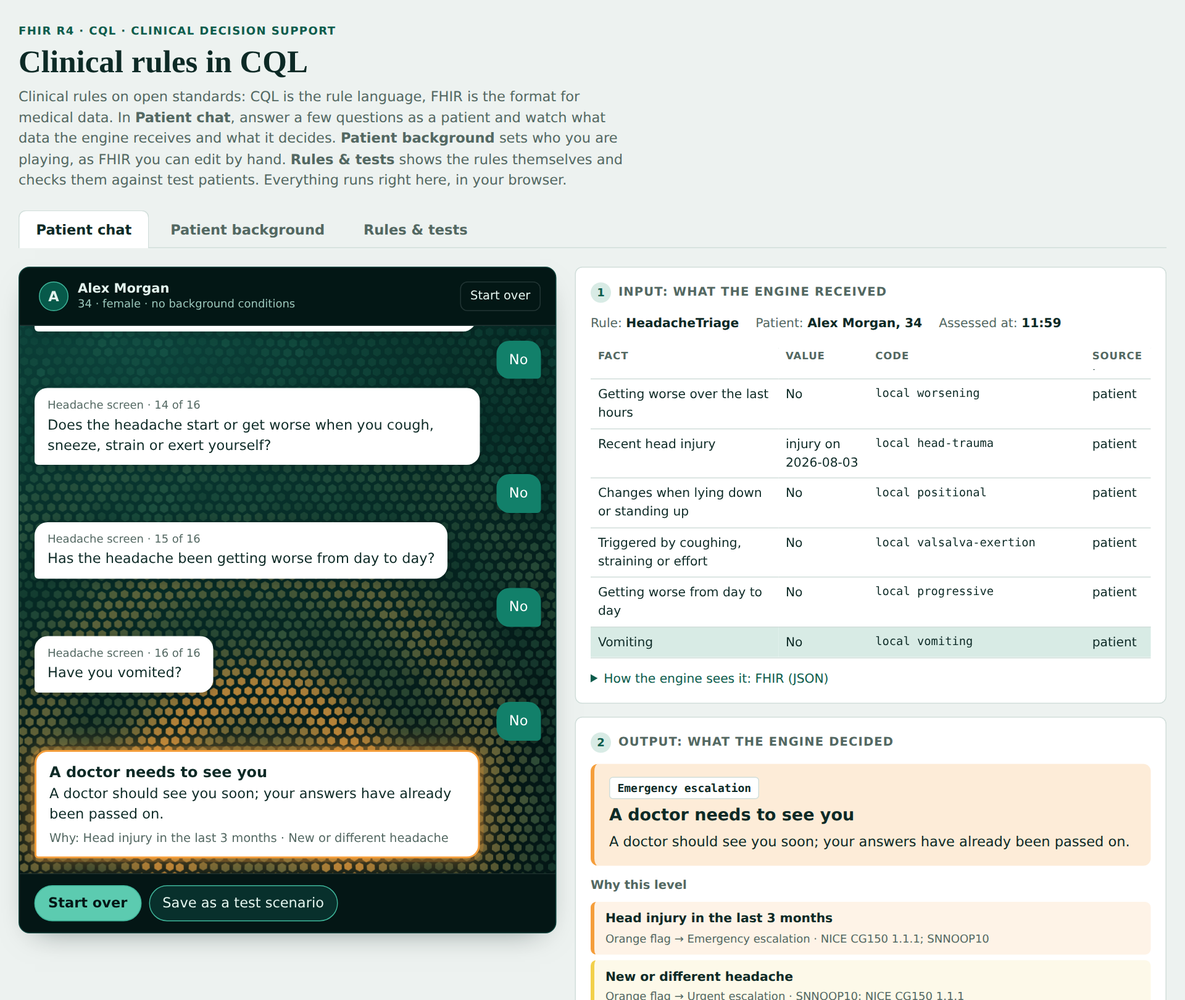
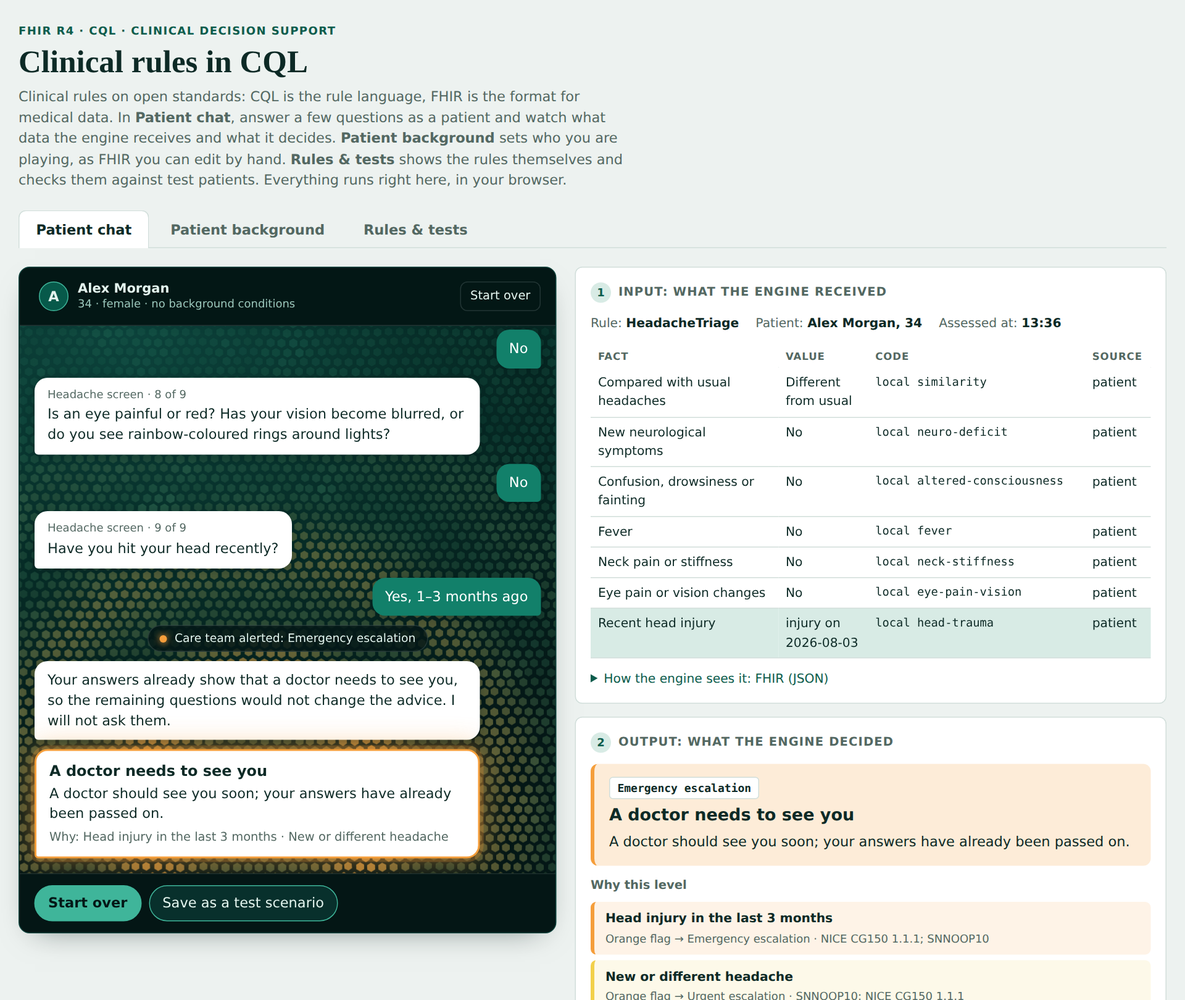
Let the headache rule decide which questions to ask
HeadacheTriage now returns Questions Needed: the unanswered questions
whose answer can still change the level, in order. The chat asks the
first one, re-runs the rule and repeats, so the question tree lives in
CQL and is tested like any other output.

- Onset on exertion is asked only for the Ottawa branch, worsening only
  after a fever, GCA signs only at 50+ with a new headache.
- Owner decision: with a headache like the usual ones, positional,
  cough-triggered and progressive features are not flags and are not
  asked.
- Owner decision: nothing more is asked once the level is ED, or once
  it is Emergency with every ED-level question answered.

A usual headache now takes 10 questions instead of 16. Scenarios h16
and h17 follow the new rules; h22-h25 test the tree. The protocol
document lists both decisions with their alternatives.

Claude-Session: https://claude.ai/code/session_011bsjphpfwD6A2eDCGEzVLt

diff --git a/web/index.html b/web/index.html
@@ -818,7 +818,7 @@ pre.json { margin: 0; max-height: 320px; overflow: auto; font: 12px/1.5 var(--fo
           <li>Press “Compile &amp; run”.</li>
         </ol>
         <p class="expect">Expected: <code data-expect="ex1">all passed</code>. This is how a UAT scenario is added: just facts and expectations.</p>
-        <div class="row"><button class="btn small" type="button" data-ex="1" data-tip="Adds a test patient whose headache gets worse with coughing (Urgent escalation) and runs every check.">Add and run</button></div>
+        <div class="row"><button class="btn small" type="button" data-ex="1" data-tip="Adds a test patient whose headache is different from the usual ones (Urgent escalation) and runs every check.">Add and run</button></div>
       </article>
       <article class="ex">
         <span class="num">EXERCISE 2</span>
@@ -870,12 +870,12 @@ pre.json { margin: 0; max-height: 320px; overflow: auto; font: 12px/1.5 var(--fo
 
   const NOTES = {
     "MoodScreening.cql": "Clinical module: depression (PHQ-9) and anxiety (GAD-7) screening. PHQ-9 item 9 is checked separately from the total score.",
-    "HeadacheTriage.cql": "Clinical module: adult headache triage (NICE CG150, SNNOOP10, Ottawa SAH Rule). Red flags → ED, orange flags → Emergency or Urgent; the pain score counts only when no flag fired.",
+    "HeadacheTriage.cql": "Clinical module: adult headache triage (NICE CG150, SNNOOP10, Ottawa SAH Rule). Red flags → ED, orange flags → Emergency or Urgent; the pain score counts only when no flag fired. It also lists the questions still worth asking (Questions Needed).",
     "RulePatterns.cql": "Pattern library: the building blocks every rule reuses — time window, trusted sources, latest value, upward-only escalation.",
     "FHIRHelpers.cql": "Standard HL7 helper library. No need to change it.",
     "vocabulary.json": "ValueSets: set address → codes, e.g. the answers that make a headache “new”.",
   };
-  const EXERCISE_FILE = "scenarios/h22-cough-makes-it-worse.json";
+  const EXERCISE_FILE = "scenarios/h30-different-from-usual.json";
 
   // ---------- file model ----------
   const original = {};
@@ -906,10 +906,10 @@ pre.json { margin: 0; max-height: 320px; overflow: auto; font: 12px/1.5 var(--fo
     let s;
     try { s = JSON.parse(original["scenarios/h01-baseline.json"]); } catch (e) { s = null; }
     if (!s || !Array.isArray(s.facts)) return { name: "New test patient", rule: MAIN, now: new Date().toISOString(), facts: [], expect: {} };
-    s.name = "Coughing makes the headache worse -> urgent escalation, provider notification";
-    const fact = s.facts.find(f => f.code === "valsalva-exertion");
-    if (fact) fact.answer = "Yes";
-    s.expect = { "Fired Flags": ["valsalva-exertion"], "Proposed Level": "Urgent escalation", "Disposition": "Provider notification" };
+    s.name = "Different from the usual headaches -> urgent escalation, provider notification";
+    const fact = s.facts.find(f => f.code === "similarity");
+    if (fact) fact.answer = "different";
+    s.expect = { "Fired Flags": ["new-or-changed"], "Proposed Level": "Urgent escalation", "Disposition": "Provider notification" };
     return s;
   }
 
@@ -1598,7 +1598,6 @@ pre.json { margin: 0; max-height: 320px; overflow: auto; font: 12px/1.5 var(--fo
     return defaultBackground();
   })();
   const saveBackground = () => { try { localStorage.setItem(BG_KEY, JSON.stringify(background)); } catch (e) { /* ignore */ } };
-  const backgroundAge = () => ageFrom(patientOf(background).birthDate);
 
   // A copy for one engine run: the Patient goes to scenario.patient, everything else to scenario.resources
   function backgroundForEngine() {
@@ -1987,14 +1986,16 @@ pre.json { margin: 0; max-height: 320px; overflow: auto; font: 12px/1.5 var(--fo
   // The engine outputs shown up front and saved as expectations; the rest stays in the full trace
   const KEY_OUTPUTS = {
     MoodScreening: ["PHQ-9 Score", "PHQ-9 Severity", "GAD-7 Score", "GAD-7 Severity", "Self-harm Thoughts", "Proposed Level", "New Level", "Disposition"],
-    HeadacheTriage: ["Age", "Pain Now", "Fired Flags", "Ask Headache Screen", "Proposed Level", "New Level", "Disposition"],
+    HeadacheTriage: ["Age", "Pain Now", "Fired Flags", "Questions Needed", "Proposed Level", "New Level", "Disposition"],
   };
   const LEVEL_CLS = { "ED escalation": "ed", "Emergency escalation": "emergency", "Urgent escalation": "urgent", "No escalation required": "none" };
   // Dispositions after which the chat stops asking: one answer was enough
   const STOP = new Set(["Leave area and seek emergency care", "Emergency Department evaluation"]);
 
-  // The headache screen in the protocol's order: ED-level questions first, then the pain score, then the rest
+  // The headache screen questions, in the order the rule lists them. The rule decides which are asked:
+  // its "Questions Needed" output names only those whose answer can still change the level.
   const NEW_PAIN_TIP = "A new or different headache: an orange flag (Urgent escalation). It also turns on the flags that need a new headache.";
+  const NEW_PAIN_ONLY = "Counted only with a new or different headache, which is already Urgent escalation: it adds detail to the alert, so the rule does not ask it.";
   const HQ = [
     { code: "co-exposure", short: "Others unwell nearby, or a fuel-burning appliance", text: "Does anyone around you have similar symptoms? Is a generator, gas heater or stove running indoors where you are?", yes: "Possible carbon monoxide: ED escalation, and the first advice is to leave the area." },
     { code: "onset-peak", short: "Time from onset to the worst pain", text: "How quickly did the headache reach its worst?", options: [
@@ -2002,9 +2003,8 @@ pre.json { margin: 0; max-height: 320px; overflow: auto; font: 12px/1.5 var(--fo
       { label: "In 5 to 60 minutes", value: "5-to-60-min", tip: "With a new headache and pain of 7 or more, the Ottawa SAH Rule is checked." },
       { label: "Over more than an hour", value: "over-60-min", tip: "A gradual onset: no flag by itself." },
     ] },
-    { code: "onset-exertion", short: "Started during physical effort", text: "Did it start during physical effort, such as exercise, lifting or straining?", yes: "One of the Ottawa SAH Rule criteria: it counts with a new, severe headache that peaked within an hour." },
     { code: "similarity", short: "Compared with usual headaches", text: "Is this headache like the headaches you usually get?", options: [
-      { label: "Like my usual ones", value: "usual", tip: "A familiar headache: no flag by itself." },
+      { label: "Like my usual ones", value: "usual", tip: "A familiar headache: no flag by itself, and the screen gets shorter." },
       { label: "Different from usual", value: "different", tip: NEW_PAIN_TIP },
       { label: "My first headache like this", value: "first-ever", tip: NEW_PAIN_TIP },
     ] },
@@ -2013,21 +2013,22 @@ pre.json { margin: 0; max-height: 320px; overflow: auto; font: 12px/1.5 var(--fo
     { code: "fever", short: "Fever", text: "Do you have a fever?", yes: "With neck pain or stiffness: ED escalation. With a headache that is getting worse: Emergency escalation." },
     { code: "neck-stiffness", short: "Neck pain or stiffness", text: "Is your neck painful or stiff, so that it is hard to bend your head forward?", yes: "With fever: a red flag (possible meningitis). It is also an Ottawa SAH Rule criterion." },
     { code: "eye-pain-vision", short: "Eye pain or vision changes", text: "Is an eye painful or red? Has your vision become blurred, or do you see rainbow-coloured rings around lights?", yes: "A red flag (possible acute glaucoma): ED escalation." },
-    { kind: "pain", short: "Pain now, 0–10", text: "How bad is the headache right now, from 0 (no pain) to 10 (the worst pain you can imagine)?" },
-    { code: "worsening", short: "Getting worse over the last hours", text: "Is the headache getting worse over the last few hours?", yes: "With fever: Emergency escalation." },
+    { code: "onset-exertion", short: "Started during physical effort", text: "Did it start during physical effort, such as exercise, lifting or straining?", yes: "One of the Ottawa SAH Rule criteria: it counts with a new, severe headache that peaked within an hour." },
+    { code: "pain-score", kind: "pain", short: "Pain now, 0–10", text: "How bad is the headache right now, from 0 (no pain) to 10 (the worst pain you can imagine)?" },
     { code: "head-trauma", short: "Recent head injury", text: "Have you hit your head recently?", options: [
       { label: "No", value: "No", tip: "Recorded as “No”: a real answer." },
       { label: "Yes, in the last 4 weeks", value: { daysAgo: 14 }, tip: "Recorded as the date of the injury, about 2 weeks ago: within 3 months, so Emergency escalation." },
       { label: "Yes, 1–3 months ago", value: { daysAgo: 60 }, tip: "Recorded as a date about 2 months ago: within the 90-day window, so Emergency escalation." },
       { label: "Yes, more than 3 months ago", value: { daysAgo: 120 }, tip: "Recorded as a date about 4 months ago: outside the 90-day window, so no flag." },
     ] },
-    { code: "positional", short: "Changes when lying down or standing up", text: "Does the headache change when you lie down or stand up?", yes: "An orange flag: Urgent escalation." },
-    { code: "valsalva-exertion", short: "Triggered by coughing, straining or effort", text: "Does the headache start or get worse when you cough, sneeze, strain or exert yourself?", yes: "An orange flag: Urgent escalation." },
-    { code: "progressive", short: "Getting worse from day to day", text: "Has the headache been getting worse from day to day?", yes: "An orange flag: Urgent escalation." },
-    { code: "vomiting", short: "Vomiting", text: "Have you vomited?", yes: "With a new or different headache: Urgent escalation." },
-    { code: "gca-features", short: "Jaw pain when chewing, or a tender scalp", text: "Does your jaw hurt when you chew? Is your scalp sore to the touch?", yes: "At 50 or older with a new headache: possible giant cell arteritis, Emergency escalation.", minAge: 50 },
+    { code: "worsening", short: "Getting worse over the last hours", text: "You said you have a fever. Is the headache getting worse over the last few hours?", yes: "Fever with a worsening headache: Emergency escalation." },
+    { code: "gca-features", short: "Jaw pain when chewing, or a tender scalp", text: "Does your jaw hurt when you chew? Is your scalp sore to the touch?", yes: "At 50 or older with a new headache: possible giant cell arteritis, Emergency escalation." },
+    { code: "positional", short: "Changes when lying down or standing up", text: "Does the headache change when you lie down or stand up?", yes: NEW_PAIN_ONLY },
+    { code: "valsalva-exertion", short: "Triggered by coughing, straining or effort", text: "Does the headache start or get worse when you cough, sneeze, strain or exert yourself?", yes: NEW_PAIN_ONLY },
+    { code: "progressive", short: "Getting worse from day to day", text: "Has the headache been getting worse from day to day?", yes: NEW_PAIN_ONLY },
+    { code: "vomiting", short: "Vomiting", text: "Have you vomited?", yes: NEW_PAIN_ONLY },
   ];
-  const HQ_BY_CODE = Object.fromEntries(HQ.filter(q => q.code).map(q => [q.code, q]));
+  const HQ_BY_CODE = Object.fromEntries(HQ.map(q => [q.code, q]));
 
   // The flags the rule can fire ("Fired Flags"), in words, with the evidence behind each
   const FLAGS = {
@@ -2136,7 +2137,7 @@ pre.json { margin: 0; max-height: 320px; overflow: auto; font: 12px/1.5 var(--fo
       const topic = await ask(
         `Hi! This is a demo chat: you answer as a patient, and the Input and Output panels show what data the rule engine received and what it decided.\nYou are playing ${nameOf(p) || "the patient"}, ${ageFrom(p.birthDate)}. Click the name above to change the age or medical background.\nWhat shall we check?`,
         [
-          { label: "Headache", value: "headache", cls: "primary", tip: "Runs HeadacheTriage: an adult headache screen based on NICE CG150, SNNOOP10 and the Ottawa SAH Rule. It also reads the patient background." },
+          { label: "Headache", value: "headache", cls: "primary", tip: "Runs HeadacheTriage: an adult headache screen based on NICE CG150, SNNOOP10 and the Ottawa SAH Rule. The rule picks each next question and reads the patient background." },
           { label: "Mood and anxiety", value: "mood", tip: "Runs the MoodScreening rule: the PHQ-9 depression and GAD-7 anxiety questionnaires." },
         ],
       );
@@ -2186,10 +2187,6 @@ pre.json { margin: 0; max-height: 320px; overflow: auto; font: 12px/1.5 var(--fo
   }
 
   // ---------- the headache screen ----------
-  const applicableQuestions = () => HQ.filter(q => !q.minAge || (backgroundAge() ?? 0) >= q.minAge);
-  const isAnswered = (chat, q) => chat.facts.some(f => (q.kind === "pain"
-    ? f.kind === "pain" && f.value != null
-    : f.kind === "headache-screen" && f.code === q.code && (f.answer != null || f.date != null)));
   const NOT_SURE = { label: "Not sure", value: null, cls: "muted", tip: "Recorded as a question without an answer. The rule treats it as unknown, not as “no”, and asks for it again." };
 
   function optionsFor(q) {
@@ -2220,35 +2217,42 @@ pre.json { margin: 0; max-height: 320px; overflow: auto; font: 12px/1.5 var(--fo
   }
 
   async function headacheFlow(my) {
-    const chat = { rule: "HeadacheTriage", facts: [], sentLevel: null };
+    const chat = { rule: "HeadacheTriage", facts: [], sentLevel: null, asked: 0 };
     const has = await ask("Do you have a headache right now?", [
-      { label: "Yes", value: "Yes", tip: "Start the headache screen: up to 17 short questions, the most important first." },
+      { label: "Yes", value: "Yes", tip: "Start the headache screen: about ten short questions, the most important first." },
       { label: "No", value: "No", tip: "Recorded as “No”. The protocol applies only to a headache now, so the engine will say it does not apply." },
     ]);
     if (my !== chatSession) return;
     chat.facts.push({ kind: "headache", answer: has, at: new Date().toISOString(), source: "Patient" });
     if (!(await step(my, chat, true))) return;
     if (has === "Yes") {
-      say("I will ask a few short questions, the most important first, and stop as soon as one answer is enough to advise you. The Output panel shows the engine's decision after every answer.");
-      await screen(my, chat, applicableQuestions());
+      say("I will ask a few short questions, the most important first. After each answer the rule picks the next question and skips those that can no longer change the advice, so I stop as soon as the answer is clear. The Output panel shows the engine's decision after every answer.");
+      await screen(my, chat);
     } else {
       await conclude(my, chat);
     }
   }
 
-  async function screen(my, chat, list) {
-    for (let i = 0; i < list.length; i++) {
-      const q = list[i];
-      progress(i + 1, list.length);
-      const value = await ask(q.text, optionsFor(q), `Headache screen · ${i + 1} of ${list.length}`);
+  // The questions the rule still needs, in its order, that this pass has not asked yet.
+  // "Not sure" leaves a question needed, so each pass asks it once; the skipped ones get their own pass.
+  const neededNow = (chat, asked) => listOf(chat.last.out["Questions Needed"]).filter(code => HQ_BY_CODE[code] && !asked.has(code));
+
+  async function screen(my, chat) {
+    const asked = new Set();
+    for (let needed = neededNow(chat, asked); needed.length && !STOP.has(chat.last.out.Disposition); needed = neededNow(chat, asked)) {
+      const q = HQ_BY_CODE[needed[0]];
+      asked.add(q.code);
+      chat.asked += 1;
+      const total = chat.asked + needed.length - 1;
+      progress(chat.asked, total);
+      const value = await ask(q.text, optionsFor(q), `Headache screen · ${chat.asked} of ${total}`);
       if (my !== chatSession) return;
       chat.facts.push(factFor(q, value));
       if (!(await step(my, chat, true))) return;
-      if (STOP.has(chat.last.out.Disposition)) {
-        if (i < list.length - 1) say("I am stopping the questions here: this answer is enough to advise you.");
-        break;
-      }
     }
+    const level = chat.last.out["Proposed Level"];
+    if (STOP.has(chat.last.out.Disposition)) say("I am stopping the questions here: this answer is enough to advise you.");
+    else if (level === "Emergency escalation" && !neededNow(chat, new Set()).length) say("Your answers already show that a doctor needs to see you, so the remaining questions would not change the advice. I will not ask them.");
     await conclude(my, chat);
   }
 
@@ -2323,15 +2327,14 @@ pre.json { margin: 0; max-height: 320px; overflow: auto; font: 12px/1.5 var(--fo
     decision.classList.add("decision", r.verdict.cls);
     waves.light(decision, r.verdict.cls);
 
-    const missing = chat.rule === "HeadacheTriage" && r.out.Applies === "true" && !STOP.has(r.out.Disposition)
-      ? applicableQuestions().filter(q => !isAnswered(chat, q)) : [];
+    const missing = chat.rule === "HeadacheTriage" && !STOP.has(r.out.Disposition) ? neededNow(chat, new Set()) : [];
     const asking = /^Ask/.test(r.out.Disposition || "");
     const options = [];
     if (missing.length) {
       options.push({
         label: missing.length === 1 ? "Answer the skipped question" : `Answer the ${missing.length} skipped questions`,
         value: "missing", cls: asking ? "primary" : undefined, silent: true,
-        tip: "Ask again only the questions that have no answer yet. The engine re-runs after each one.",
+        tip: "Ask again only the questions the rule still needs. The engine re-runs after each one.",
       });
     }
     options.push({ label: "Start over", value: "restart", cls: missing.length && asking ? undefined : "primary", silent: true, tip: TIP_RESTART });
@@ -2481,7 +2484,10 @@ pre.json { margin: 0; max-height: 320px; overflow: auto; font: 12px/1.5 var(--fo
   function renderOutput(rule, r, live) {
     const { scenario, out, trace, verdict } = r;
     const parts = [];
-    if (live) parts.push(el("p", "live", `Live: the engine re-runs after every answer (${scenario.facts.length} so far).`));
+    if (live) {
+      const needed = listOf(out["Questions Needed"]).length;
+      parts.push(el("p", "live", `Live: the engine re-runs after every answer (${scenario.facts.length} so far)${rule === "HeadacheTriage" && out.Applies === "true" ? `; the rule still needs ${needed} question${needed === 1 ? "" : "s"}` : ""}.`));
+    }
     const card = el("div", "verdict " + verdict.cls);
     if (out["Proposed Level"]) card.append(el("span", "level", out["Proposed Level"]));
     card.append(el("h3", null, verdict.title), el("p", null, verdict.text));

diff --git a/docs/headache-triage-protocol.md b/docs/headache-triage-protocol.md
@@ -2,7 +2,7 @@
 
 Andrii Yevenko · October 2026 · based on NCBI sources (PubMed, PMC, Bookshelf) and NICE CG150
 
-Implemented in [`cql/HeadacheTriage.cql`](../cql/HeadacheTriage.cql) and checked by test scenarios `h01`–`h21` in [`scenarios/`](../scenarios/). The escalation levels are illustrative: this demonstrates an approach, not a clinical recommendation.
+Implemented in [`cql/HeadacheTriage.cql`](../cql/HeadacheTriage.cql) and checked by test scenarios `h01`–`h25` in [`scenarios/`](../scenarios/). The escalation levels are illustrative: this demonstrates an approach, not a clinical recommendation.
 
 ## Purpose and scope
 
@@ -24,7 +24,7 @@ Branches are checked top-down and the first true one wins. Any positive flag out
 | 3 | At least one ED-level question unanswered | The highest orange flag so far, or null | Ask headache screen | Answer the rest; if the level is not null, the care team is already alerted |
 | 4 | An Emergency-level flag | Emergency escalation | Provider evaluation required | Seen by a doctor the same day |
 | 5 | An Urgent-level flag, or NRS ≥ 8 | Urgent escalation | Provider notification | Contact from the care team within a day |
-| 6 | Other questions unanswered, no flags | null | Ask headache screen | Answer the remaining questions |
+| 6 | A question that can still change the level is unanswered, no flags | null | Ask headache screen | Answer the remaining questions |
 | 7 | Screen complete, NRS 0–7 | No escalation required | Reassure | Self-care and when to seek help again |
 | 8 | Screen complete, no pain score | null | Ask pain score | Rate the pain |
 
@@ -57,11 +57,14 @@ These signs do not need an ambulance but do need a doctor: the same day (Emergen
 | Age ≥ 50, new or changed headache + jaw pain when chewing or a tender scalp | Emergency | Does your jaw hurt when you chew? Is your scalp sore to the touch? | `gca-features` | StatPearls, Giant Cell Arteritis: visual symptoms in 20–30% of patients |
 | Head injury in the last 3 months | Emergency | Have you hit your head recently? When? | `head-trauma` | NICE CG150, 1.1.1; SNNOOP10 |
 | Immunosuppression (HIV, immunosuppressive drugs) + new headache | Emergency | Profile | `immunocompromised` | NICE CG150, 1.1.2; SNNOOP10 |
-| New headache (first ever), a marked change from the usual, or progressive headache | Urgent | Similarity = first ever or different; is it getting worse from day to day? | `similarity`, `progressive` | SNNOOP10: pattern change or recent new headache, progressive headache; NICE CG150, 1.1.1 |
-| Headache that changes with posture | Urgent | Does it change when you lie down or stand up? | `positional` | NICE CG150, 1.1.1; SNNOOP10: intracranial hyper- or hypotension |
-| Headache triggered by coughing, sneezing, straining or exercise | Urgent | Does it start or get worse when you cough, sneeze, strain or exert yourself? | `valsalva-exertion` | NICE CG150, 1.1.1 |
+| New headache (first ever), or a marked change from the usual | Urgent | Similarity = first ever or different | `similarity` | SNNOOP10: pattern change or recent new headache; NICE CG150, 1.1.1 |
+| Progressive headache + new or changed headache | Urgent | Is it getting worse from day to day? | `progressive` | SNNOOP10: progressive headache; NICE CG150, 1.1.1 |
+| Headache that changes with posture + new or changed headache | Urgent | Does it change when you lie down or stand up? | `positional` | NICE CG150, 1.1.1; SNNOOP10: intracranial hyper- or hypotension |
+| Headache triggered by coughing, sneezing, straining or exercise + new or changed headache | Urgent | Does it start or get worse when you cough, sneeze, strain or exert yourself? | `valsalva-exertion` | NICE CG150, 1.1.1 |
 | History of cancer (one that spreads to the brain) + new headache | Urgent | Profile | `cancer-history` | NICE CG150, 1.1.2 |
 | Vomiting + new headache | Urgent | Have you vomited? | `vomiting` | NICE CG150, 1.1.2: vomiting without another obvious cause |
+
+Positional, cough-triggered and progressive features count only with a new or changed headache (owner decision, October 2026): with a headache like the usual ones they are not flags and are not asked. A new or changed headache is already Urgent, so these features, like vomiting and a cancer history, add detail to the alert but do not change the level.
 
 Loss of vision or double vision with suspected GCA already gives ED through “new neurological deficit”. NICE gives a migraine attack as an example of an “other obvious cause” of vomiting, but a patient cannot tell the difference, so the rule counts vomiting with any new headache.
 
@@ -72,11 +75,23 @@ The pain score affects the decision only when the screen is complete and no flag
 - NRS ≥ 8 → Urgent: a person in severe pain needs a pain-relief plan, not an ambulance.
 - NRS 0–7 → No escalation required, Disposition = Reassure.
 
-**Required questions.** ED-level: `co-exposure`, `onset-peak`, `onset-exertion`, `similarity`, `neuro-deficit`, `altered-consciousness`, `fever`, `neck-stiffness`, `eye-pain-vision`, plus the pain score when the pain is new and peaked within an hour (the Ottawa branch). The rest: `worsening`, `head-trauma`, `positional`, `valsalva-exertion`, `progressive`, `vomiting`; at age ≥ 50 also `gca-features`.
+**Which questions are asked.** The rule itself returns **Questions Needed**: the unanswered questions whose answer can still change the level, in the order to ask them. The chat asks the first one, runs the rule again and repeats, so a question is never asked when no answer to it could change the advice.
+
+| Question | Asked when |
+|---|---|
+| `co-exposure`, `onset-peak`, `similarity`, `neuro-deficit`, `altered-consciousness`, `fever`, `neck-stiffness`, `eye-pain-vision` | Always: ED-level, asked first |
+| `onset-exertion` | Only for the Ottawa branch: a new or changed headache that peaked in 5–60 minutes, age under 40 and no stiff neck (otherwise the rule is already met or cannot apply) |
+| Pain score (NRS) | ED-level in the Ottawa branch; otherwise only while no orange flag has fired, because it then decides between Reassure and Urgent |
+| `head-trauma` | While the level is below Emergency |
+| `worsening` | Only after “Yes” to fever, while the level is below Emergency |
+| `gca-features` | Age ≥ 50 and a new or changed headache, while the level is below Emergency |
+| `positional`, `valsalva-exertion`, `progressive`, `vomiting` | Never: they count only with a new or changed headache, which is already Urgent, so they cannot change the level |
+
+**Stopping early** (owner decision, October 2026). Nothing more is asked once the level is ED, or once it is Emergency and every ED-level question is answered: the remaining answers could not change the advice. The alert then lists only the flags found so far. A typical headache like the usual ones takes 10 questions instead of 16.
 
 - **“No” is a fact.** Each question is recorded as its own Observation with a yes/no answer. A flag fires only on “Yes”, and a question counts as answered only when it has a value. This closes two gaps of a plain “symptom present” model: an Observation without a value is not an answer, and a symptom answered “No” does not escalate.
 - **“Prefer not to answer”** (“Not sure” in the chat) means no answer.
-- **Ask Headache Screen** = true when at least one required question has no answer in the window. **Ask Pain Score** = true when there is no pain score in the window.
+- **Ask Headache Screen** = true when Questions Needed is not empty. **Ask Pain Score** = true when there is no pain score in the window.
 - **Proposed Level** = null only when no flag fired and an answer is missing. A positive flag does not wait for the screen to finish.
 
 Unlike a rule where only a pain score can be missing (and a missing score can never outrank a red flag), here unanswered questions can still reveal ED. So the ED-level questions come first, and while any of them is unanswered, Disposition = Ask headache screen, even if New Level has already sent the care team an Emergency or Urgent alert.
@@ -117,11 +132,11 @@ New building blocks in `RulePatterns`:
 - **From Record.** Profile facts also accept MANUAL, because a clinician enters them. Symptoms and answers are still accepted only from Patient and RPM.
 - **Dated Within(lookback).** The head-injury answer is recorded at the time of the conversation, and the date of the injury is its value (`valueDateTime`). The flag fires when that date is no older than 90 days. Symptoms stay in `Conversation Window(Last Run, 12 h)`.
 
-Outputs: Proposed Level, New Level (through Monotonic Escalation), Disposition, Ask Headache Screen, Ask Pain Score and **Fired Flags** — the list of codes of the flags that fired, for the alert text.
+Outputs: Proposed Level, New Level (through Monotonic Escalation), Disposition, Ask Headache Screen, Ask Pain Score, **Questions Needed** — the questions still worth asking, in order — and **Fired Flags** — the list of codes of the flags that fired, for the alert text.
 
 ## Test scenarios
 
-Twenty-one scenarios cover every branch, every boundary (NRS 7/8, age 39/40 and 49/50, injury 90/91 days ago), missing data, an untrusted source and the choice of the latest pain score. The base for all of them: headache “yes” in the window, every question “no”, similarity “like usual”, NRS 5, age 35, an empty profile, source Patient, Last Run and Current Level null.
+Twenty-five scenarios cover every branch, every boundary (NRS 7/8, age 39/40 and 49/50, injury 90/91 days ago), missing data, an untrusted source, the choice of the latest pain score and the question tree. The base for all of them: headache “yes” in the window, every question “no”, similarity “like usual”, NRS 5, age 35, an empty profile, source Patient, Last Run and Current Level null.
 
 | # | Change from the base | Proposed Level | Disposition | What it checks |
 |---|---|---|---|---|
@@ -140,14 +155,18 @@ Twenty-one scenarios cover every branch, every boundary (NRS 7/8, age 39/40 and 
 | H13 | Head injury 90 days ago | Emergency escalation | Provider evaluation required | The injury window boundary |
 | H14 | Head injury 91 days ago | No escalation required | Reassure | A fact outside the window has no effect |
 | H15 | `neuro-deficit` as an Observation without a value | null | Ask headache screen | An empty Observation is not an answer |
-| H16 | `neuro-deficit` “yes”, other questions unanswered | ED escalation | Emergency Department evaluation | A flag does not wait for the full screen |
-| H17 | `positional` “yes”, `eye-pain-vision` unanswered | Urgent escalation | Ask headache screen | An orange flag with ED questions incomplete |
+| H16 | `neuro-deficit` “yes”, other questions unanswered | ED escalation | Emergency Department evaluation | A flag does not wait for the full screen; nothing more is asked |
+| H17 | Head injury 2 weeks ago, `eye-pain-vision` unanswered | Emergency escalation | Ask headache screen | An orange flag with ED questions incomplete: only the ED question is still needed |
 | H18 | `neuro-deficit` “yes” from source MANUAL | null | Ask headache screen | A clinician's entry is not the patient's answer |
 | H19 | Immunosuppression in the profile (MANUAL), first ever | Emergency escalation | Provider evaluation required | From Record accepts MANUAL for the profile |
 | H20 | Current Level = ED escalation, `within-5-min` | ED escalation | Emergency Department evaluation | New Level = null, no repeat alert |
 | H21 | Two pain scores: 9 earlier, 4 now | No escalation required | Reassure | The latest score counts, not the highest |
+| H22 | Usual headache, age 55; exertion, worsening, posture, cough, day-to-day, vomiting and GCA unanswered | No escalation required | Reassure | None of those questions is needed for a usual headache |
+| H23 | Different headache, immunosuppressed; nothing after the ED questions | Emergency escalation | Provider evaluation required | Emergency with the ED questions answered stops the screen |
+| H24 | Fever “yes”, neck “no”, worsening unanswered | null | Ask headache screen | Fever makes the worsening question needed |
+| H25 | First headache like this, peak in 5–60 minutes, age 35 | Urgent escalation | Ask headache screen | The Ottawa branch makes exertion and the pain score ED-level questions |
 
-H15–H18 also check Ask Headache Screen = true; H20 checks New Level = null. Every base answer is an explicit “No”, so each scenario also checks that “No” never raises a flag.
+H15, H17 and H18 also check Ask Headache Screen = true; H16, H17 and H22–H25 check Questions Needed; H20 checks New Level = null. Every base answer is an explicit “No”, so each scenario also checks that “No” never raises a flag.
 
 ## Owner decisions and evidence limits
 
@@ -165,6 +184,8 @@ The protocol is deliberately sensitive: most flags have low specificity on their
 | Pregnancy | From the profile only | Ask all women of childbearing age; define the postpartum period and a blood-pressure threshold if RPM sends blood pressure |
 | Medication overuse (SNNOOP10) | Does not escalate | A separate output for a routine review |
 | “Don't know” on an ED-level question | As a missing answer → Ask | As “yes”, fail-safe, like PHQ-9 item 9 |
+| Positional, cough-triggered or progressive features with a headache like the usual ones | Not flags, not asked (decided October 2026) | Urgent flags with any headache, as in SNNOOP10: more sensitive, three more questions; a slowly growing secondary headache can feel “usual” to the patient |
+| Questions after the level can no longer change | Not asked (decided October 2026) | Ask everything so that the alert lists every flag |
 
 **Evidence limits.**
 

diff --git a/README.md b/README.md
@@ -15,7 +15,8 @@ Two clinical rules — an adult [headache triage protocol](docs/headache-triage-
 **What I did**
 
 - Wrote two clinical modules and a shared pattern library in CQL: time windows, trusted data sources, latest value, upward-only escalation, explicit handling of missing data (“No” is a fact; a question without a value is not an answer).
-- Turned an evidence-based headache triage protocol (NICE CG150, SNNOOP10, Ottawa SAH Rule, StatPearls) into a CQL module: red flags → ED, orange flags → Emergency or Urgent, ED-level questions asked first, every fired flag returned for the alert text, and 21 tests for every branch and boundary (age 39/40 and 49/50, pain 7/8, head injury 90/91 days).
+- Turned an evidence-based headache triage protocol (NICE CG150, SNNOOP10, Ottawa SAH Rule, StatPearls) into a CQL module: red flags → ED, orange flags → Emergency or Urgent, ED-level questions asked first, every fired flag returned for the alert text, and 25 tests for every branch and boundary (age 39/40 and 49/50, pain 7/8, head injury 90/91 days).
+- Made the questioning adaptive inside the rule itself: CQL returns the questions whose answer can still change the level, so the chat never asks one that cannot change the advice (a headache like the usual ones takes 10 questions instead of 16).
 - Modelled the patient background in FHIR (`Patient.birthDate` plus profile Observations) and made it editable in the page both as a form and as raw JSON.
 - Mapped patient facts to FHIR `Observation`s with LOINC and SNOMED CT codes and UCUM units, including coded PHQ-9 answers.
 - Built a test harness: test patients are plain JSON (facts + expected results), so clinical analysts can add cases without writing code.
@@ -28,7 +29,7 @@ Two clinical rules — an adult [headache triage protocol](docs/headache-triage-
 
 The page has three tabs:
 
-- **Patient chat.** Answer with buttons as a patient: a headache screen, or the PHQ-9 and GAD-7 questionnaires (answer them yourself or pick a ready-made example). Next to the chat you see the **input** — which facts, with which codes, the engine received (also as raw FHIR) — and the **output**: the decision in plain language, the escalation level, the flags that fired with their evidence, the depression and anxiety scores and the value of every rule step. The headache screen re-runs the engine after every answer: the output is live, an orange flag alerts the care team before the screen is finished, and a red flag stops the questions at once. Skipped questions can be answered at the end. The decision message lights up the rippling hexagon background in its escalation colour. “Save as a test scenario” turns a conversation into a test patient. Hover over any button to see what it does.
+- **Patient chat.** Answer with buttons as a patient: a headache screen, or the PHQ-9 and GAD-7 questionnaires (answer them yourself or pick a ready-made example). Next to the chat you see the **input** — which facts, with which codes, the engine received (also as raw FHIR) — and the **output**: the decision in plain language, the escalation level, the flags that fired with their evidence, the depression and anxiety scores and the value of every rule step. The headache screen re-runs the engine after every answer: the output is live, the rule picks the next question and skips those that can no longer change the advice, an orange flag alerts the care team before the screen is finished, and the questions stop as soon as the answer is clear. Skipped questions can be answered at the end. The decision message lights up the rippling hexagon background in its escalation colour. “Save as a test scenario” turns a conversation into a test patient. Hover over any button to see what it does.
 - **Patient background.** Who you are playing: name, sex, age (18 or older) and medical history (pregnancy, a weakened immune system, cancer history). The form and an editable FHIR Bundle are the same data; hand edits are validated before use, and any extra FHIR resource is passed to the engine as is.
 - **Rules & tests.** An editor for the rules, the code vocabulary and the test patients (picked from a list grouped by rule), a “Compile & run” button, a trace of every step and three 10-minute exercises: add a test patient, change a threshold and see what breaks, make a typo and get a precise error. Rule changes apply to the chat right away.
 
@@ -37,7 +38,7 @@ The page has three tabs:
 | Level | Headache triage | Mood screening | What the patient is told | Chat colour |
 |---|---|---|---|---|
 | No escalation required | Full screen, no flags, pain 0–7 | PHQ-9 < 10 and GAD-7 < 10 | No warning signs (and when to seek help again) | green |
-| Urgent escalation | A new or different headache, worse with posture or coughing, worse day by day; pain 8–10 | PHQ-9 10–19 or GAD-7 ≥ 10 | We recommend talking to your doctor | yellow |
+| Urgent escalation | A new or different headache (worse with posture or coughing, or worse day by day, adds detail to the alert); pain 8–10 | PHQ-9 10–19 or GAD-7 ≥ 10 | We recommend talking to your doctor | yellow |
 | Emergency escalation | Head injury in the last 3 months, fever with a worsening headache, a new headache with pregnancy or a weak immune system, giant cell arteritis signs at 50+ | PHQ-9 ≥ 20 | A doctor needs to see you | orange |
 | ED escalation | Thunderclap onset, a neurological deficit, confusion, fever with a stiff neck, the Ottawa SAH Rule, a painful red eye; suspected carbon monoxide (leave the area first) | Any thoughts of self-harm (PHQ-9 item 9) | Seek emergency care / help urgently | red |
 
@@ -56,8 +57,9 @@ Missing answers never become “no escalation”: the level stays unknown and th
 
 **Result.**
 
-- 2 clinical modules, 1 pattern library, 27 test scenarios (plus any saved from the chat), all green in CI on three Node.js versions.
+- 2 clinical modules, 1 pattern library, 31 test scenarios (plus any saved from the chat), all green in CI on three Node.js versions.
 - A guideline-based protocol (the headache screen) went from a document to executable rules with a test for every branch and boundary; the clinical owner's open questions are listed next to the evidence.
+- The question tree lives in the rule, not in the page: which questions are asked is tested like any other output (`Questions Needed` in scenarios h16, h17, h22–h25).
 - A zero-install demo published automatically to GitHub Pages; the compiler and engine run in the visitor's browser.
 - Compile errors point to `file:line:column`; three-valued logic keeps missing data unknown instead of “false”; units are compared with UCUM conversion (for example, °F against a threshold in °C).
 
@@ -129,15 +131,15 @@ PASS  h21-latest-pain-score.json  [HeadacheTriage] Two pain scores, 9 earlier an
         New Or Changed Pain      = false
         ...
         Severe Pain              = false
-        ED Questions Answered    = true
-        Other Questions Answered = true
+        ...
+        Questions Needed         = []
         Ask Headache Screen      = false
       ✓ Proposed Level           = No escalation required
         New Level                = null
       ✓ Disposition              = Reassure
       ✓ Fired Flags              = []
 ...
-27 / 27 PASS
+31 / 31 PASS
 ```
 
 ✓ marks a step the scenario's `expect` checks; ✗ marks one that did not match. `null` means “no value”: the rule never silently turns it into `false`.
